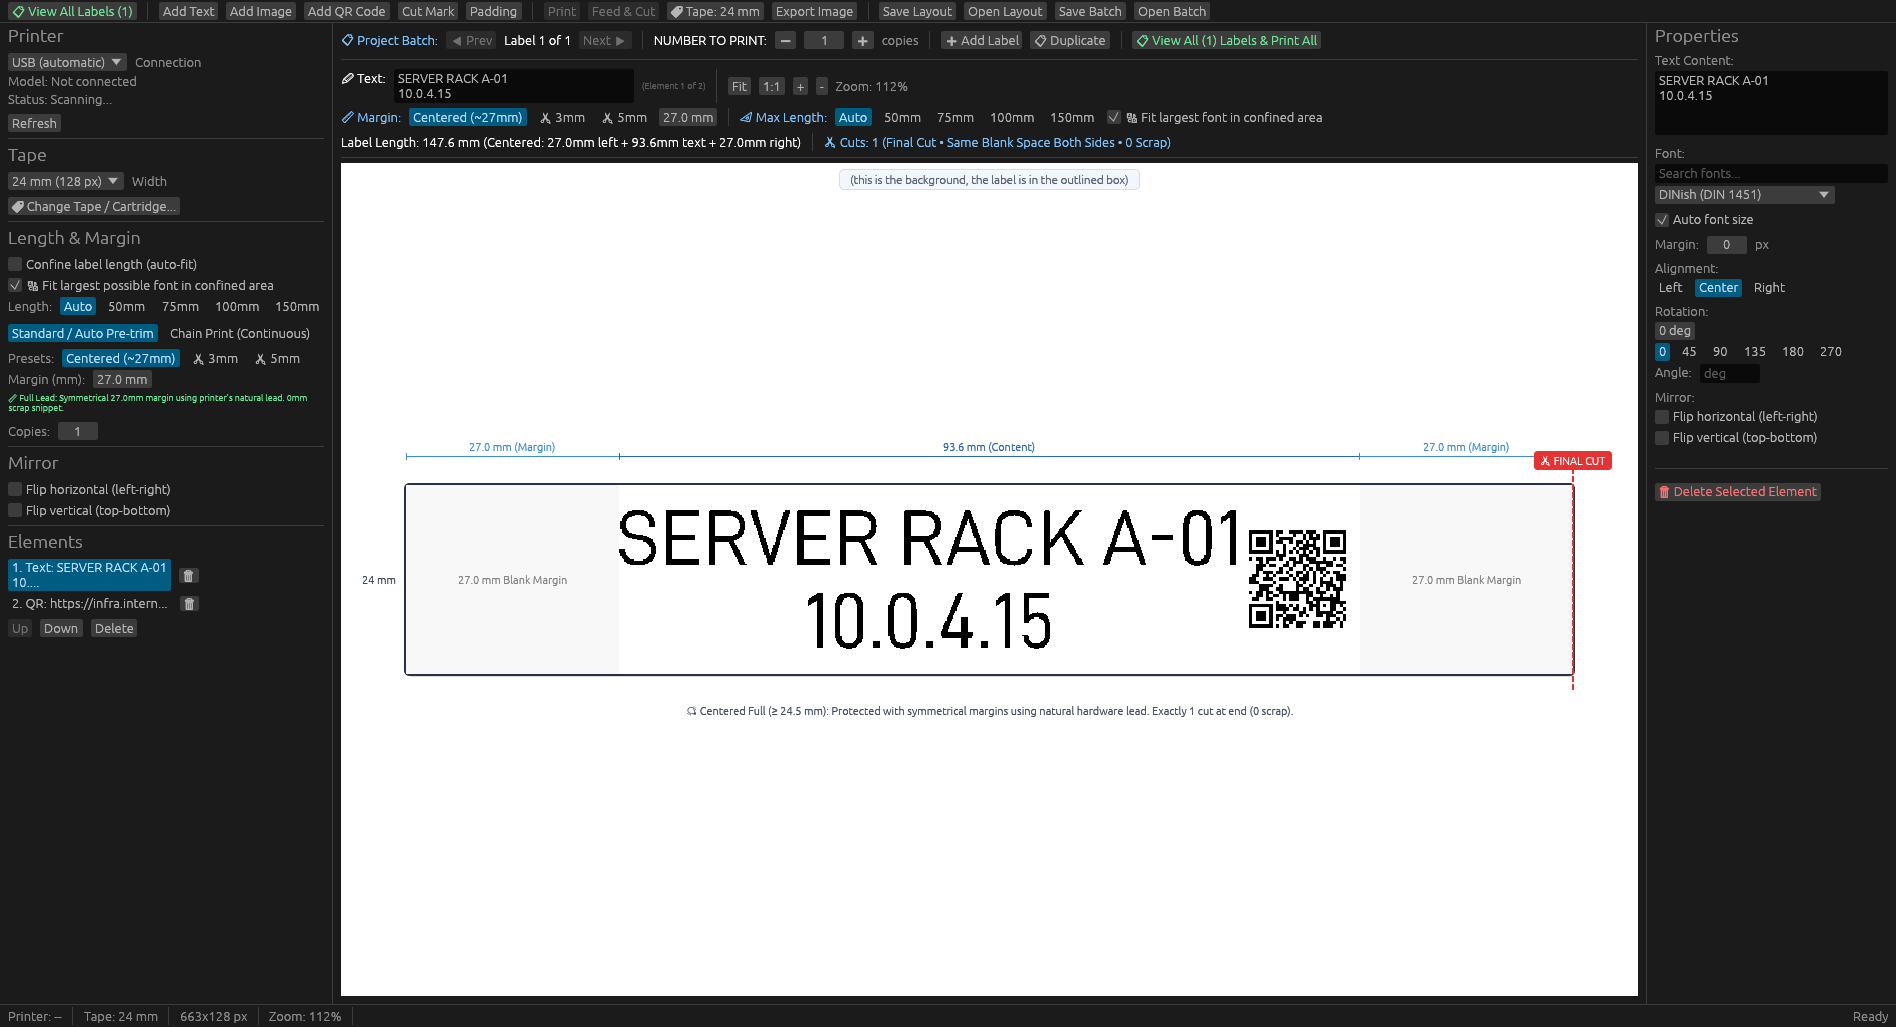
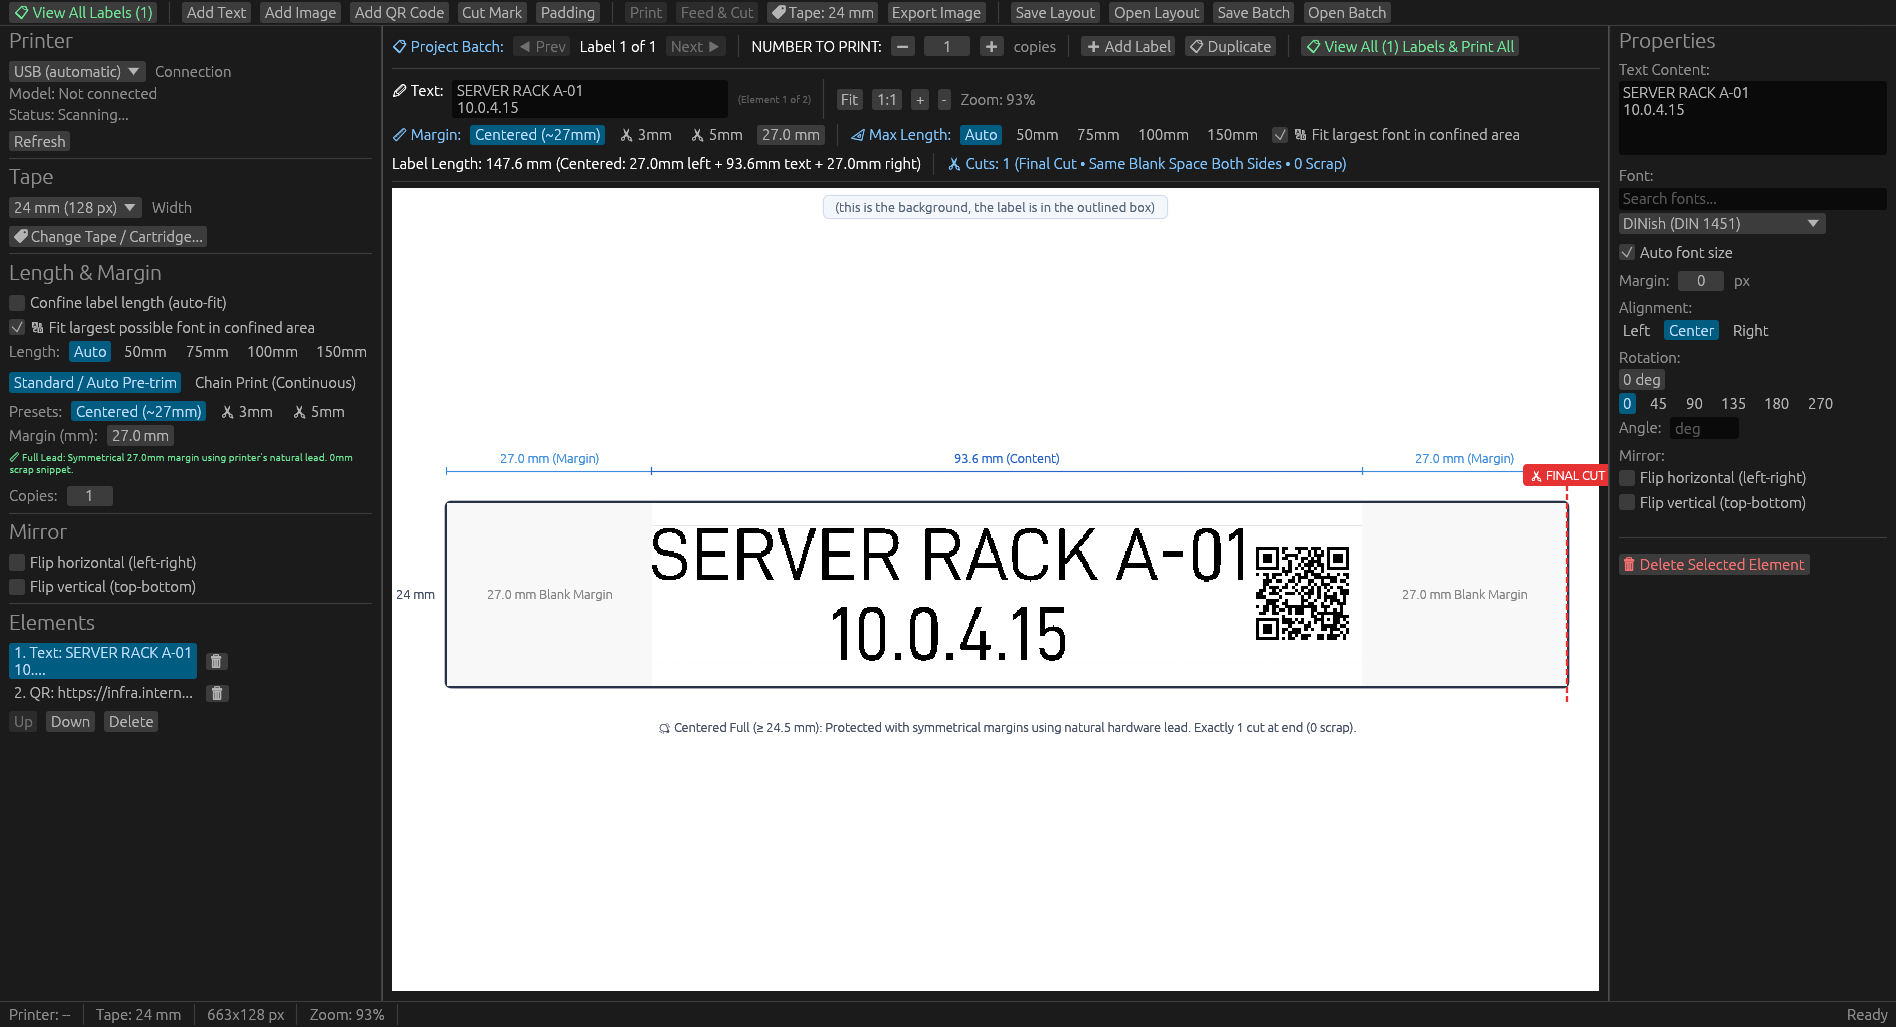
docs: capture larger, tightly-framed UI screenshots for README

Changed region(s): [[0.0, 0.0, 0.9647, 0.9971], [0.8402, 0.0312, 0.9335, 0.1246], [0.9647, 0.9659, 0.9958, 0.9971]]

diff --git a/crates/ptouch-gui/src/panels/canvas.rs b/crates/ptouch-gui/src/panels/canvas.rs
@@ -546,10 +546,10 @@ pub fn show_canvas(ui: &mut egui::Ui, state: &mut AppState) {
 
             // Calculate zoom (leave enough side margin for the left tape-width callout & right cut badge)
             let zoom = if state.zoom_fit {
-                let margin_x = 130.0;
-                let margin_y = 110.0;
+                let margin_x = 76.0;
+                let margin_y = 84.0;
                 let zoom_x = (canvas_size.x - margin_x) / total_strip_w_px.max(1.0);
-                let zoom_y = (canvas_size.y - margin_y) / (tape_physical_h_px + 50.0).max(1.0);
+                let zoom_y = (canvas_size.y - margin_y) / (tape_physical_h_px + 40.0).max(1.0);
                 let fit_zoom = zoom_x.min(zoom_y).clamp(0.05, 10.0);
                 state.zoom = fit_zoom;
                 fit_zoom
@@ -560,8 +560,8 @@ pub fn show_canvas(ui: &mut egui::Ui, state: &mut AppState) {
             let display_strip_w = total_strip_w_px * zoom;
             let display_tape_h = tape_physical_h_px * zoom;
 
-            // Center the entire printed tape in the canvas
-            let center = canvas_rect.center();
+            // Center the entire printed tape in the canvas (shifted slightly right for left "24 mm" label)
+            let center = canvas_rect.center() + egui::vec2(10.0, 4.0);
             let tape_rect =
                 egui::Rect::from_center_size(center, egui::vec2(display_strip_w, display_tape_h));
 

diff --git a/crates/ptouch-gui/src/main.rs b/crates/ptouch-gui/src/main.rs
@@ -44,10 +44,15 @@ fn main() -> eframe::Result<()> {
         viewport = viewport.with_icon(std::sync::Arc::new(icon));
     }
     if std::env::var("PTOUCH_SCREENSHOT").is_ok() {
+        let (w, h) = match std::env::var("PTOUCH_VIEW").as_deref() {
+            Ok("generator") | Ok("setup") => (1160.0, 660.0),
+            Ok("batch") => (1360.0, 780.0),
+            _ => (1380.0, 640.0),
+        };
         viewport = viewport
-            .with_inner_size([1600.0, 900.0])
-            .with_min_inner_size([1600.0, 900.0])
-            .with_max_inner_size([1600.0, 900.0])
+            .with_inner_size([w, h])
+            .with_min_inner_size([w, h])
+            .with_max_inner_size([w, h])
             .with_resizable(false);
     }
 

diff --git a/crates/ptouch-gui/src/app.rs b/crates/ptouch-gui/src/app.rs
@@ -101,6 +101,14 @@ impl PtouchApp {
             app.state.ensure_batch_initialized();
             app.state.set_max_length_mm(Some(max_len));
         }
+        if std::env::var("PTOUCH_SCREENSHOT").is_ok() {
+            let zoom = match std::env::var("PTOUCH_VIEW").as_deref() {
+                Ok("generator") | Ok("setup") => 1.35,
+                Ok("batch") => 1.22,
+                _ => 1.15,
+            };
+            cc.egui_ctx.set_zoom_factor(zoom);
+        }
         app
     }
 
